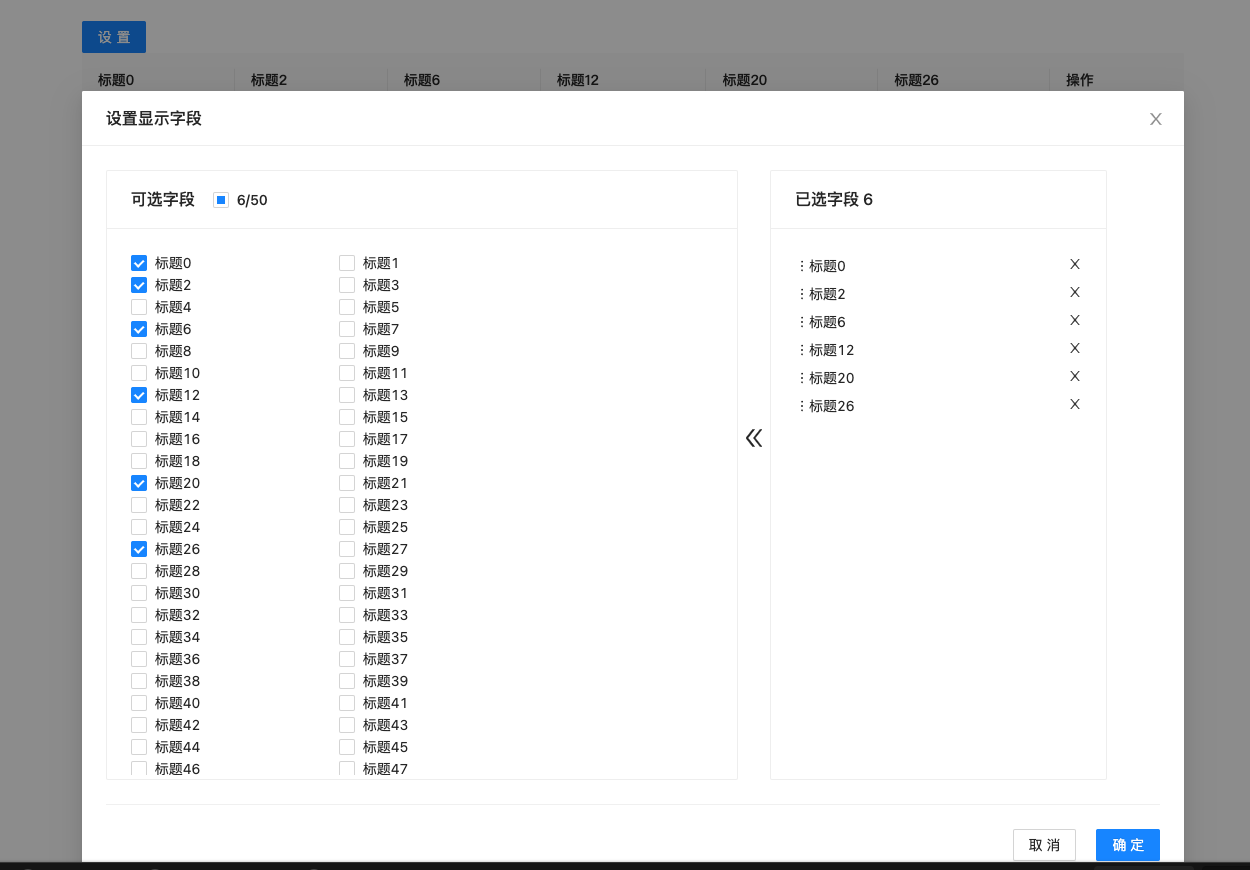
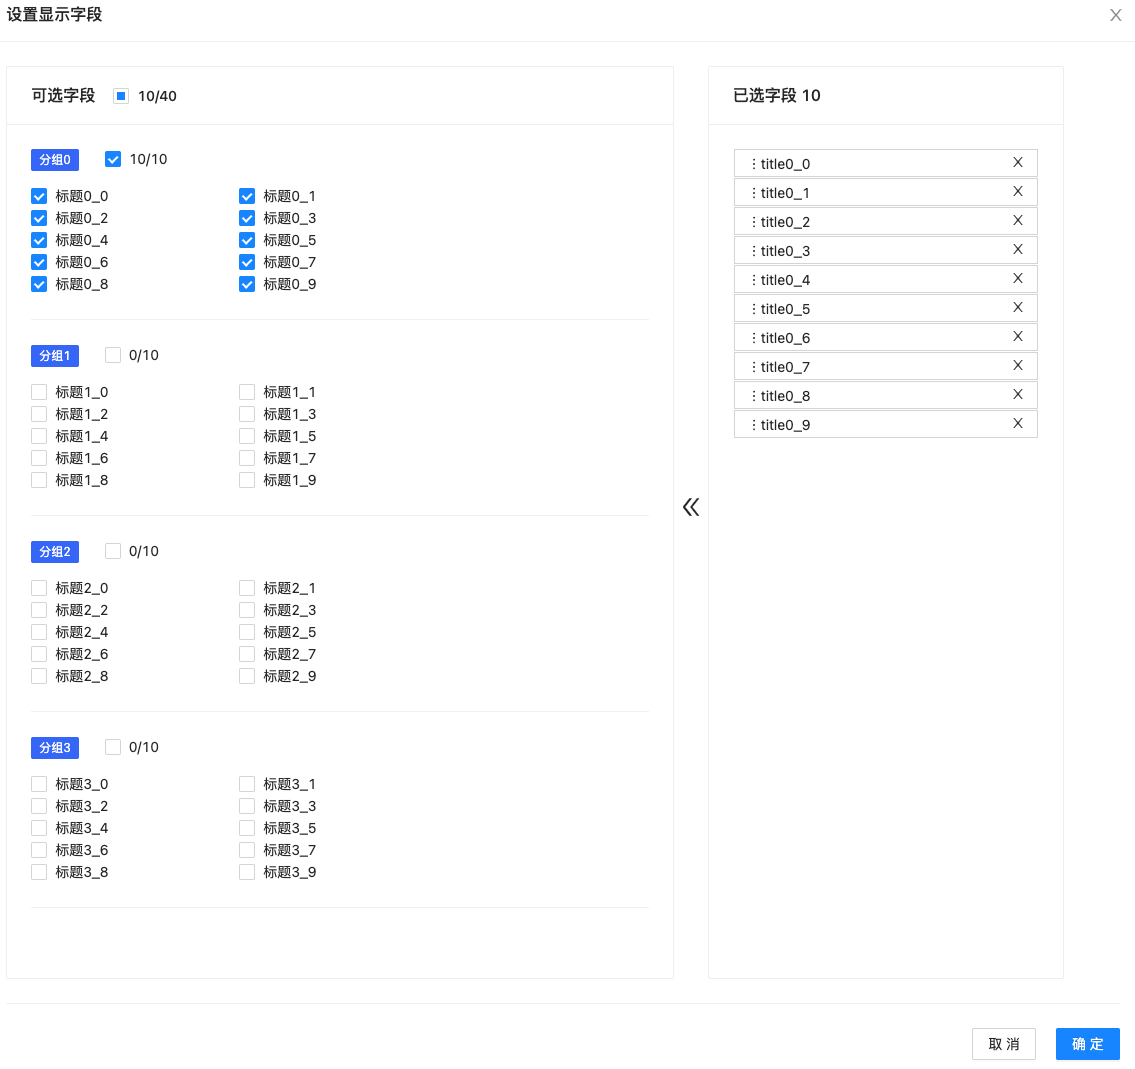
feat: update demo

diff --git a/src/mock.tsx b/src/mock.tsx
@@ -1,0 +1,73 @@
+export const mockColumns = () => {
+  const data = new Array(50).fill('').map((_item: string, index) => {
+    return {
+      dataIndex: 'title' + index,
+      key: 'title' + index,
+      title: '标题' + index,
+      show: index % 8 === 0,
+      render: (val: string) => val
+    };
+  });
+  data.push({
+    dataIndex: 'action',
+    key: 'action',
+    title: '操作',
+    show: true,
+    render: (val:string) => '跳转',
+  });
+  return data;
+}
+
+export const mockDataSource = () => {
+  const result = new Array(10).fill('').map((_item: string, indx:number) => {
+    const item: Record<string, any> = {
+      id: 'row' + indx,
+    };
+    new Array(50).fill('').forEach((_item: string, index) => {
+      item['title' + index] = 'value' + index
+    });
+    return item;
+  });
+  return result;
+}
+
+
+export const mockGroup = () => {
+  const data = new Array(4).fill('').map((_item:string, index: number) => {
+    return {
+      title: '分组' + index,
+      records: new Array(10).fill('').map((_item: string, indx) => {
+        return {
+          dataIndex: 'title' + index + '_' + indx,
+          key: 'title' + index + '_' + indx,
+          title: '标题' + index + '_' + indx,
+          show: indx % 5 === 0,
+          render: (val:string) => val,
+        };
+      }),
+    };
+  });
+  data[0].records.push({
+    dataIndex: 'action',
+    key: 'action',
+    title: '操作列',
+    show: true,
+    render: (val:string) => '跳转',
+  })
+  return data;
+}
+
+export const mockGroupDataSource = () => {
+  const result = new Array(10).fill('').map((_item: string, indx:number) => {
+    const item: Record<string, any> = {
+      id: 'row' + indx,
+    };
+    new Array(4).fill('').forEach((_item: string, indx:number) => {
+      new Array(50).fill('').forEach((_item: string, index) => {
+        item['title' + indx + '_' + index] = 'value' + indx + '_' + index
+      });
+    })
+    return item;
+  });
+  return result;
+}

diff --git a/src/AppRef.tsx b/src/AppRef.tsx
@@ -2,7 +2,7 @@ import ManageTable  from "./lib";
 import './App.css';
 import React from "react";
 import { Button } from "antd";
-import { mockColumns } from "./mock";
+import { mockColumns, mockDataSource } from "./mock";
 
 function AppRef() {
   const ref: any = React.createRef();
@@ -18,7 +18,7 @@ function AppRef() {
   );
   return (
     <div className="App">
-      <ManageTable ref={ref} setTitle="显示个设置标题" SettingComp={SettingHeader} name="testTableRef" columns={mockColumns()}/>
+      <ManageTable ref={ref} setTitle="显示个设置标题" dataSource={mockDataSource()}  SettingComp={SettingHeader} name="testTableRef" columns={mockColumns()}/>
     </div>
   );
 }

diff --git a/src/AppGroup.tsx b/src/AppGroup.tsx
@@ -2,7 +2,7 @@ import ManageTable  from "./lib";
 import './App.css';
 import React from "react";
 import { Button } from "antd";
-import { mockGroup } from "./mock";
+import { mockGroup, mockGroupDataSource } from "./mock";
 
 function AppGroupRef() {
   const ref: any = React.createRef();
@@ -18,7 +18,7 @@ function AppGroupRef() {
   );
   return (
     <div className="App">
-      <ManageTable ref={ref} SettingComp={SettingHeader} name="testTableGroup" columns={mockGroup()}/>
+      <ManageTable ref={ref} rowKey="id" dataSource={mockGroupDataSource()} SettingComp={SettingHeader} name="testTableGroup" columns={mockGroup()}/>
     </div>
   );
 }

diff --git a/src/App.tsx b/src/App.tsx
@@ -1,12 +1,12 @@
 import ManageTable  from "./lib";
 import './App.css';
 import React from "react";
-import { mockColumns } from "./mock";
+import { mockColumns, mockDataSource } from "./mock";
 
 function App() {
   return (
     <div className="App">
-      <ManageTable name="testTableSingle" columns={mockColumns()}/>
+      <ManageTable name="testTableSingle" rowKey="id" dataSource={mockDataSource()} columns={mockColumns()}/>
     </div>
   );
 }
